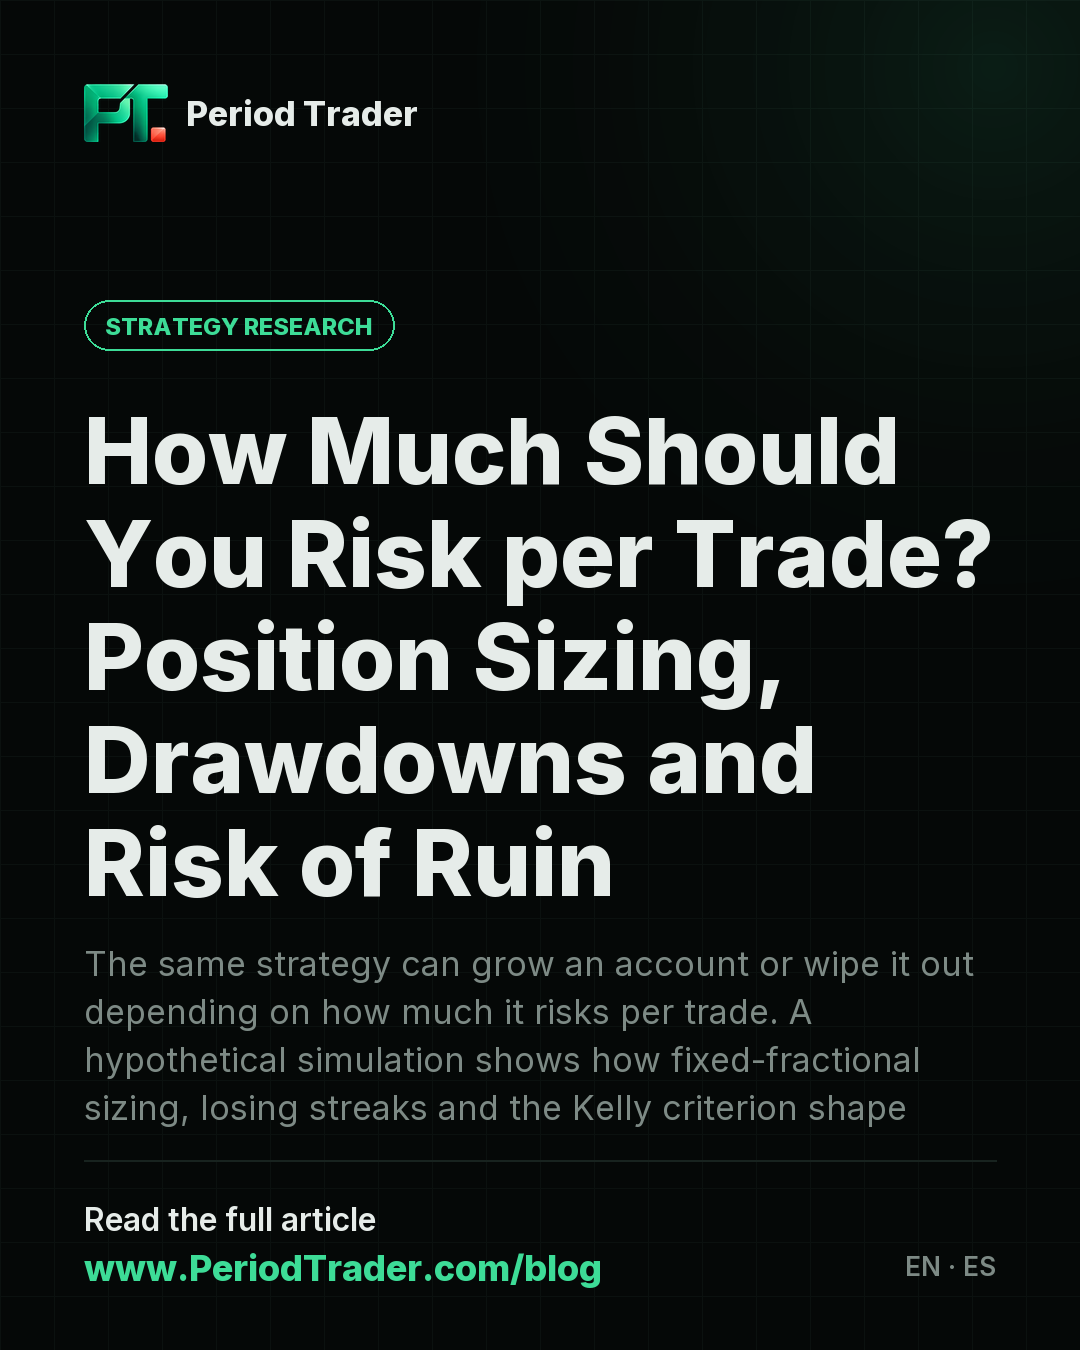
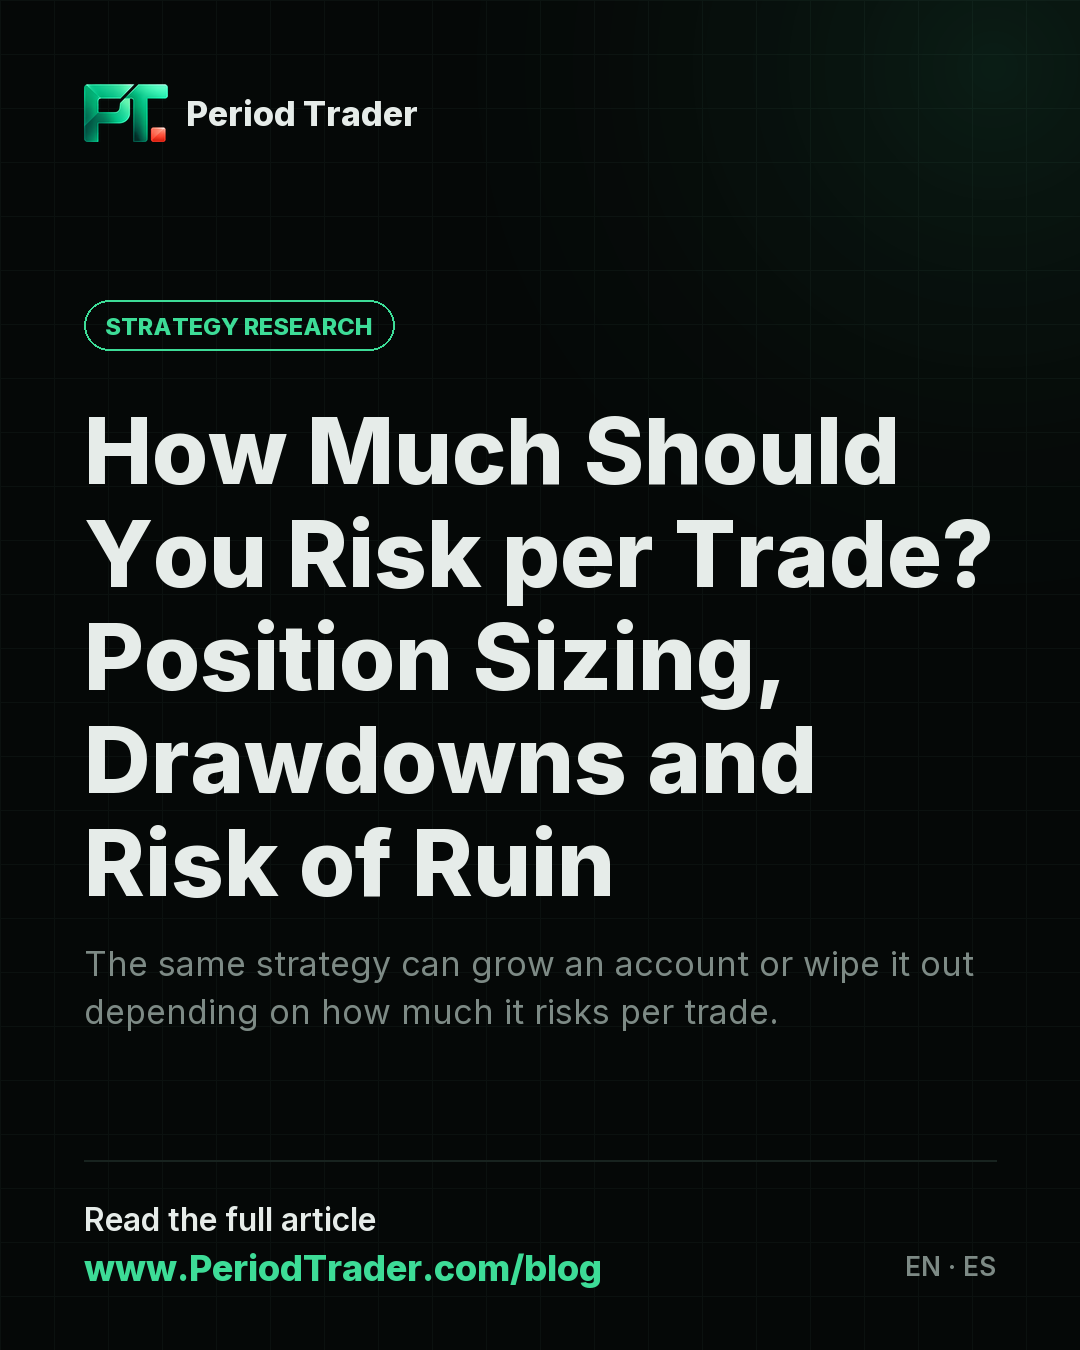
card: end summary on a whole sentence (or ellipsis), re-render how-much-to-risk-per-trade card

Changed region(s): [[0.0611, 0.7467, 0.8556, 0.84]]

diff --git a/tools/card.py b/tools/card.py
@@ -9,6 +9,7 @@ Usage: python tools/card.py <slug>   (publish runs this automatically)
 from __future__ import annotations
 
 import json
+import re
 import sys
 from pathlib import Path
 
@@ -61,6 +62,24 @@ def fit_title(draw, text, width, max_lines, sizes):
     lines = wrap(draw, text, f, width)[:max_lines]
     lines[-1] = lines[-1].rstrip(".,;:") + "…"
     return f, lines, sizes[-1]
+
+
+def clip_lines(draw, text, f, width, max_lines):
+    """Wrap text into at most max_lines without cutting a sentence mid-way:
+    keep the longest run of whole sentences that fits, else end with an ellipsis."""
+    lines = wrap(draw, text, f, width)
+    if len(lines) <= max_lines:
+        return lines
+    sentences = re.split(r"(?<=[.!?])\s+", text.strip())
+    for n in range(len(sentences) - 1, 0, -1):
+        lines = wrap(draw, " ".join(sentences[:n]), f, width)
+        if len(lines) <= max_lines:
+            return lines
+    lines = wrap(draw, text, f, width)[:max_lines]
+    lines[-1] = lines[-1].rstrip(".,;:") + "…"
+    while draw.textlength(lines[-1], font=f) > width and " " in lines[-1]:
+        lines[-1] = lines[-1].rsplit(" ", 1)[0].rstrip(".,;:") + "…"
+    return lines
 
 
 def background(w: int, h: int, accent) -> Image.Image:
@@ -121,7 +140,7 @@ def render(meta: dict, out_dir: Path) -> list[Path]:
         y += int(ts * 1.12)
     y += 34
     sf = font(400, 34)
-    for line in wrap(d, summary, sf, W - 2 * M)[:4]:
+    for line in clip_lines(d, summary, sf, W - 2 * M, 4):
         d.text((M, y), line, font=sf, fill=MUTED)
         y += 48
     d.line([(M, H - 190), (W - M, H - 190)], fill=LINE, width=2)
